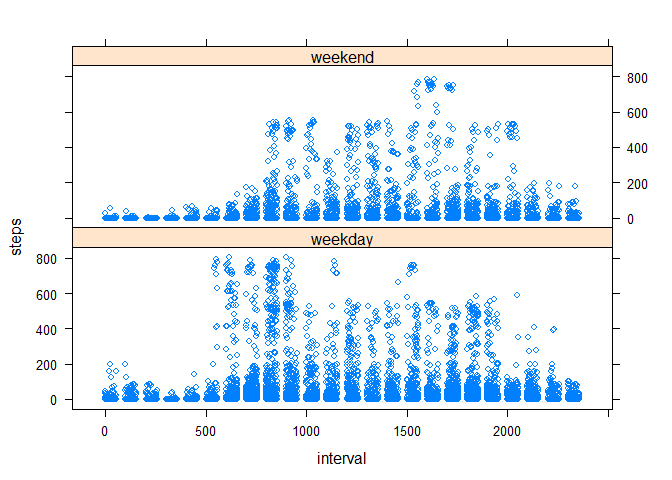
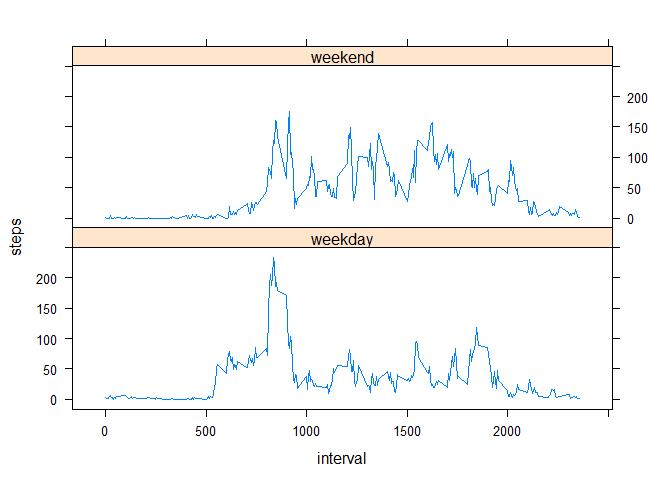
Fixed wrong plot. Set number format.

diff --git a/PA1_template.html b/PA1_template.html
@@ -64,12 +64,10 @@ img {
 </div>
 
 
+<pre><code>## [1] &quot;English_United States.1252&quot;</code></pre>
 <div id="loading-and-preprocessing-the-data" class="section level2">
 <h2>Loading and preprocessing the data</h2>
 <p>Unzip and load the data</p>
-<pre class="r"><code># Set time conversion to english
-Sys.setlocale(&quot;LC_TIME&quot;, &quot;English&quot;)</code></pre>
-<pre><code>## [1] &quot;English_United States.1252&quot;</code></pre>
 <pre class="r"><code># Unzip the archive
 unzip(&quot;activity.zip&quot;)
 
@@ -98,10 +96,10 @@ sumPerDay &lt;- tapply(data$steps, data$date, sum, na.rm = TRUE)</code></pre>
 <pre class="r"><code>hist(sumPerDay, breaks = 20, main = &quot;Histogram of the sum of steps per day&quot;)</code></pre>
[1 lines of base64/hex data omitted]
 <pre class="r"><code>mean(sumPerDay)</code></pre>
-<pre><code>## [1] 9354.23</code></pre>
+<pre><code>## [1] 9354</code></pre>
 <pre class="r"><code>median(sumPerDay)</code></pre>
 <pre><code>## [1] 10395</code></pre>
-<p>The mean of steps per day is 9354.2295082 and the median of steps per day is 1.039510^{4}.</p>
+<p>The mean of steps per day is 9354.23 and the median of steps per day is 10395.</p>
 </div>
 <div id="what-is-the-average-daily-activity-pattern" class="section level2">
 <h2>What is the average daily activity pattern?</h2>
@@ -116,7 +114,7 @@ maximumNoOfSteps &lt;- meanOfStepsPerInterval[which.max(meanOfStepsPerInterval$s
 <pre class="r"><code># Interval with the maximum number of steps
 maximumNoOfSteps$interval</code></pre>
 <pre><code>## [1] 835</code></pre>
-<p>The maximum number of steps is 206.1698113 and is in interval number 835.</p>
+<p>The maximum number of steps is 206.17 and is in interval number 835.</p>
 </div>
 <div id="imputing-missing-values" class="section level2">
 <h2>Imputing missing values</h2>
@@ -155,7 +153,7 @@ medianStepsPerDay &lt;- median(aggregatedStepsPerDay$steps)
 abline(v = medianStepsPerDay, col = &quot;blue&quot;)
 legend(x = &quot;topright&quot;, legend = c(&quot;mean&quot;, &quot;median&quot;), col = c(&quot;red&quot;, &quot;blue&quot;), lty = 1)</code></pre>
[1 lines of base64/hex data omitted]
-<p>The mean is 9545.5143829 and the median is 1.039510^{4}.</p>
+<p>The mean is 9545.51 and the median is 10395.</p>
 </div>
 <div id="are-there-differences-in-activity-patterns-between-weekdays-and-weekends" class="section level2">
 <h2>Are there differences in activity patterns between weekdays and weekends?</h2>
@@ -167,9 +165,8 @@ meanOfStepsPerIntervalWeekday &lt;- aggregate(steps ~ interval + weekday, data2,
 
 library(lattice)
 
-par(mfrow = c(2, 1))
-xyplot(steps ~ interval | weekday, data2, layout = c(1, 2))</code></pre>
[1 lines of base64/hex data omitted]
+xyplot(steps ~ interval | weekday, meanOfStepsPerIntervalWeekday, layout = c(1, 2), type = &quot;l&quot;)</code></pre>
[1 lines of base64/hex data omitted]
 </div>
 
 

diff --git a/PA1_template.md b/PA1_template.md
@@ -1,17 +1,12 @@
 # Reproducible Research: Peer Assessment 1
 
-
-## Loading and preprocessing the data
-Unzip and load the data
-
-```r
-# Set time conversion to english
-Sys.setlocale("LC_TIME", "English")
-```
-
 ```
 ## [1] "English_United States.1252"
 ```
+
+
+## Loading and preprocessing the data
+Unzip and load the data
 
 ```r
 # Unzip the archive
@@ -61,7 +56,7 @@ mean(sumPerDay)
 ```
 
 ```
-## [1] 9354.23
+## [1] 9354
 ```
 
 ```r
@@ -72,7 +67,7 @@ median(sumPerDay)
 ## [1] 10395
 ```
 
-The mean of steps per day is 9354.2295082 and the median of steps per day is 1.0395\times 10^{4}.
+The mean of steps per day is 9354.23 and the median of steps per day is 10395.
 
 ## What is the average daily activity pattern?
 
@@ -101,7 +96,7 @@ maximumNoOfSteps$interval
 ## [1] 835
 ```
 
-The maximum number of steps is 206.1698113 and is in interval number 835.
+The maximum number of steps is 206.17 and is in interval number 835.
 
 
 ## Imputing missing values
@@ -178,7 +173,7 @@ legend(x = "topright", legend = c("mean", "median"), col = c("red", "blue"), lty
 
 ![](PA1_template_files/figure-html/unnamed-chunk-14-1.png) 
 
-The mean is 9545.5143829 and the median is 1.0395\times 10^{4}.
+The mean is 9545.51 and the median is 10395.
 
 
 ## Are there differences in activity patterns between weekdays and weekends?
@@ -192,8 +187,7 @@ meanOfStepsPerIntervalWeekday <- aggregate(steps ~ interval + weekday, data2, me
 
 library(lattice)
 
-par(mfrow = c(2, 1))
-xyplot(steps ~ interval | weekday, data2, layout = c(1, 2))
+xyplot(steps ~ interval | weekday, meanOfStepsPerIntervalWeekday, layout = c(1, 2), type = "l")
 ```
 
 ![](PA1_template_files/figure-html/unnamed-chunk-15-1.png) 
